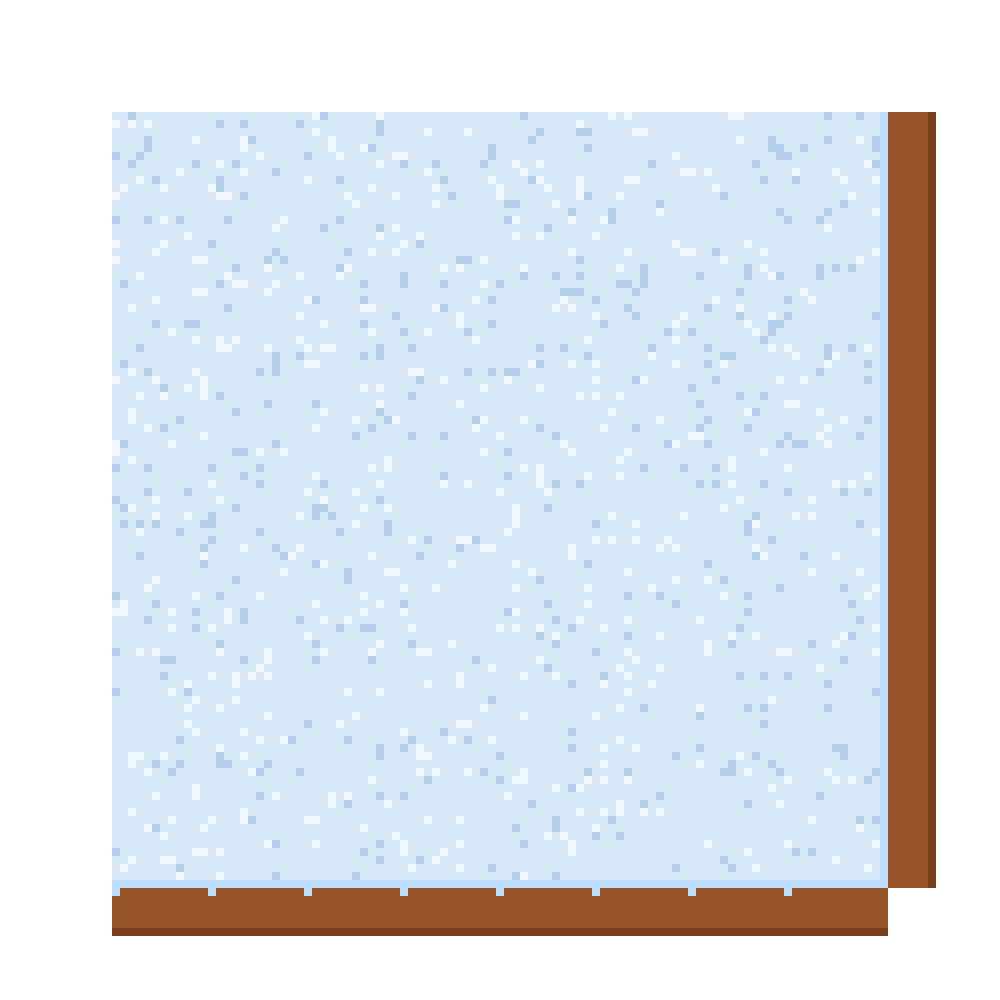
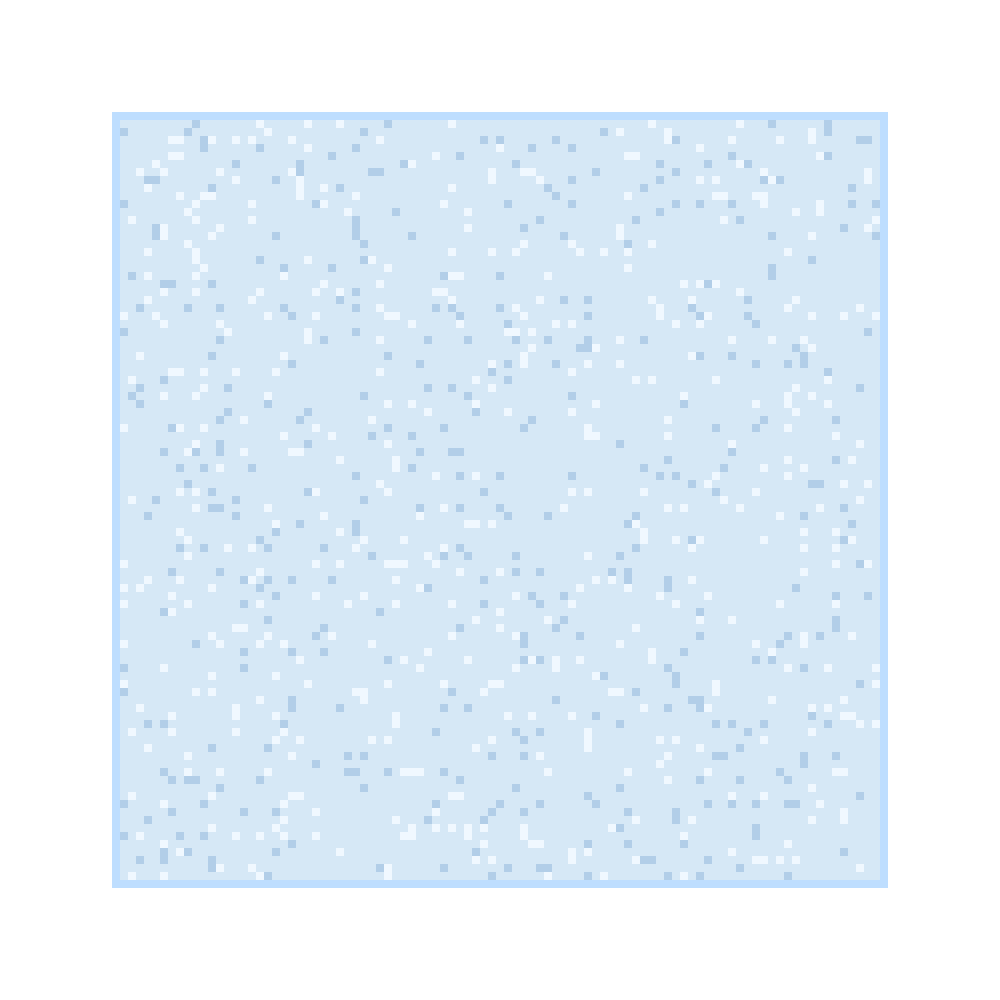
add snow range

Changed region(s): [[0.093, 0.093, 0.961, 0.961]]

diff --git a/source/core/src/main/com/csse3200/game/areas/MapEditor.java b/source/core/src/main/com/csse3200/game/areas/MapEditor.java
@@ -10,7 +10,6 @@ import com.badlogic.gdx.graphics.g2d.TextureRegion;
 import com.csse3200.game.areas.terrain.TerrainComponent;
 import com.csse3200.game.entities.Entity;
 import com.csse3200.game.services.ServiceLocator;
-import com.csse3200.game.utils.math.RandomUtils;
 import java.util.Set;
 import java.util.HashSet;
 import java.util.HashMap;
@@ -204,8 +203,27 @@ public class MapEditor extends InputAdapter {
             markKeypoint(wp);
         }
 
-        // Add snow at coordinates (10, 10)在坐标(10, 10)添加雪地
-        addSnow(10, 10);
+        // Add snow only in the red circled area只在红色圆圈区域添加雪地
+        // 根据图片描述，红色圆圈在底部中心区域
+        int[][] redCircledArea = {
+            {12, 17, 5, 12} 
+              // 红色圆圈区域 (底部中心)
+        };
+        
+        for (int[] range : redCircledArea) {
+            int startX = range[0];
+            int endX = range[1];
+            int startY = range[2];
+            int endY = range[3];
+            
+            System.out.println("🔴 处理红色圆圈区域: x=" + startX + "-" + endX + ", y=" + startY + "-" + endY);
+            
+            for (int x = startX; x <= endX; x++) {
+                for (int y = startY; y <= endY; y++) {
+                    addSnow(x, y);
+                }
+            }
+        }
         
         System.out.println("✅ Fixed path generated, number=" + pathTiles.size());
         System.out.println("✅ Key path points number=" + keyWaypoints.size());
@@ -240,6 +258,15 @@ public class MapEditor extends InputAdapter {
             return;
         }
         
+        // Check if position is already occupied by path, barriers, or keypoints检查位置是否已被路径、障碍物或关键点占用
+        String key = x + "," + y;
+        if (pathTiles.containsKey(key) || 
+            invalidTiles.containsKey(key) || 
+            barrierTiles.containsKey(key)) {
+            System.out.println("🚫 Position (" + x + ", " + y + ") is occupied by path/barrier, skipping");
+            return;
+        }
+        
         // Add to snow coordinates list添加到雪地坐标列表
         snowCoords.add(new GridPoint2(x, y));
         
@@ -248,7 +275,7 @@ public class MapEditor extends InputAdapter {
         cell.setTile(snowTile);
         pathLayer.setCell(x, y, cell);
         
-        System.out.println("✅ Snow added at coordinates (" + x + ", " + y + ")");
+        System.out.println("❄ Snow added at coordinates (" + x + ", " + y + ")");
     }
 
     /** Clean up all objects清理所有对象 */

diff --git a/source/core/src/main/com/csse3200/game/areas/ForestGameArea.java b/source/core/src/main/com/csse3200/game/areas/ForestGameArea.java
@@ -44,7 +44,7 @@ public class ForestGameArea extends GameArea {
 
     private static final String[] forestTextureAtlases = {
             "images/grunt_basic_spritesheet.atlas", "images/drone_basic_spritesheet.atlas", "images/tank_basic_spritesheet.atlas",
-            "images/boss_basic_spritesheet.atlas"
+            "images/boss_basic_spritesheet.atlas", "images/snow.png"
     };
 
     private static final String[] forestSounds = {
@@ -312,6 +312,9 @@ public class ForestGameArea extends GameArea {
         resourceService.loadTextureAtlases(forestTextureAtlases);
         resourceService.loadSounds(forestSounds);
         resourceService.loadMusic(forestMusic);
+        
+        // 加载雪地纹理
+        resourceService.loadTextures(new String[]{"images/snow.png"});
 
         while (!resourceService.loadForMillis(10)) {
             logger.info("Loading... {}%", resourceService.getProgress());
@@ -324,6 +327,7 @@ public class ForestGameArea extends GameArea {
         resourceService.unloadAssets(forestTextureAtlases);
         resourceService.unloadAssets(forestSounds);
         resourceService.unloadAssets(forestMusic);
+        resourceService.unloadAssets(new String[]{"images/snow.png"});
     }
 
     @Override
